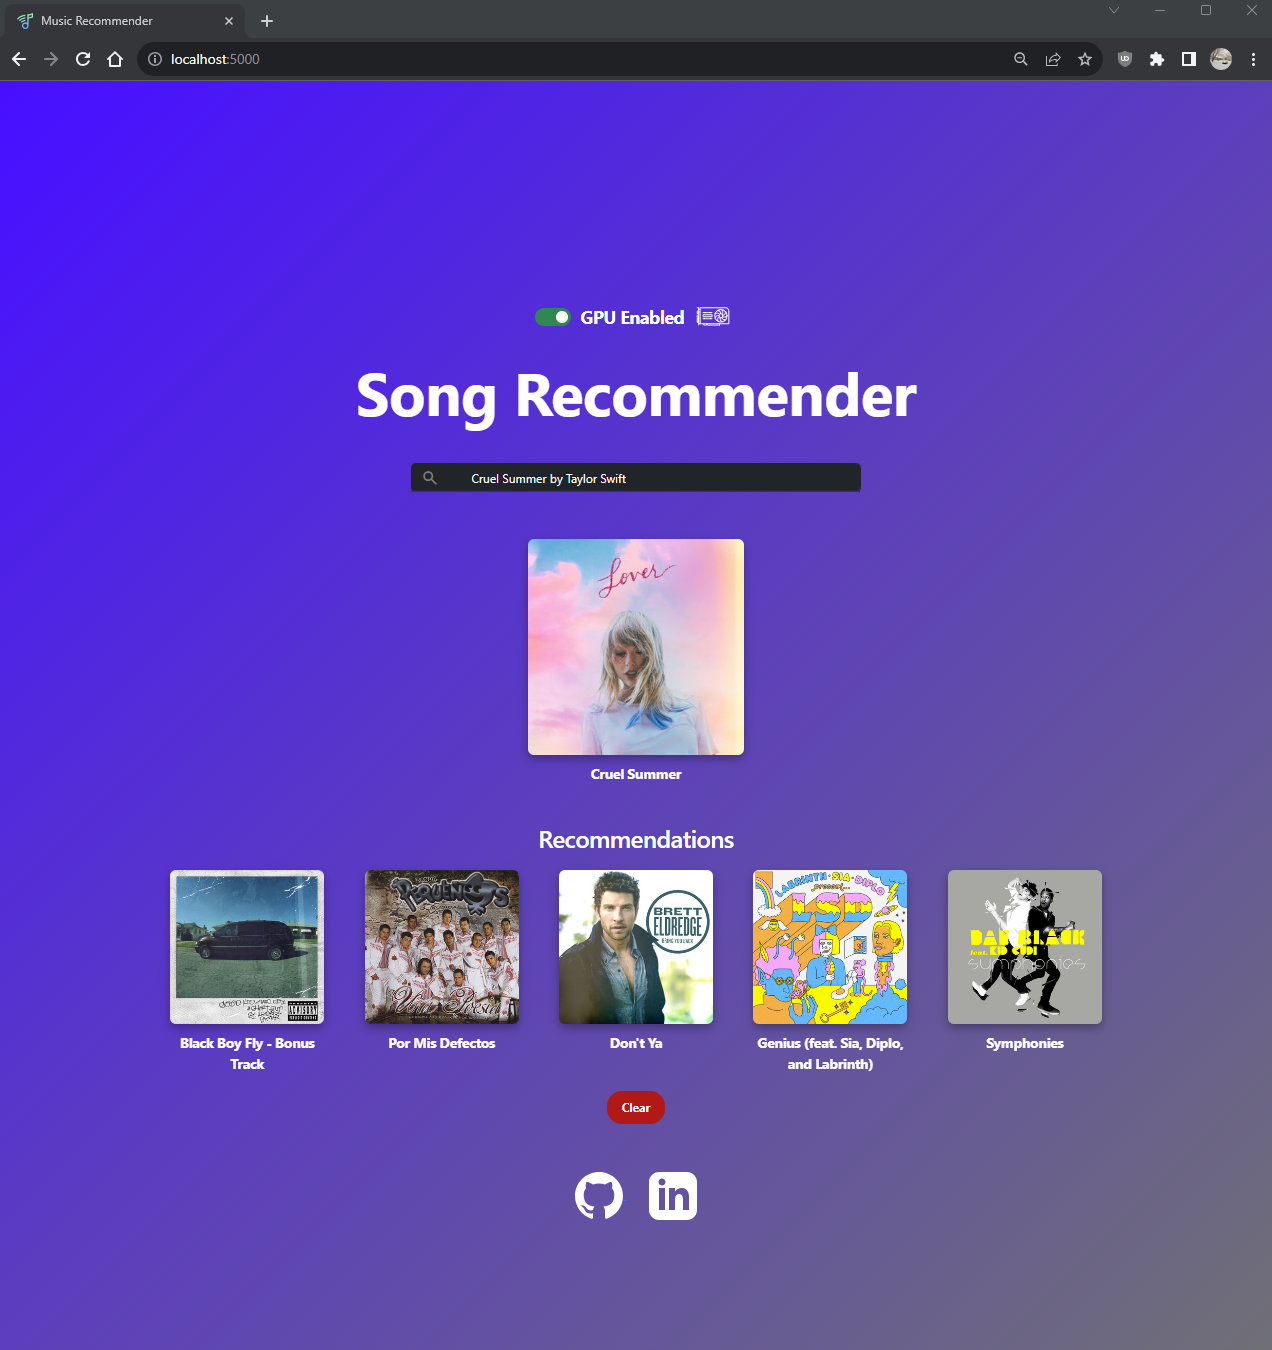
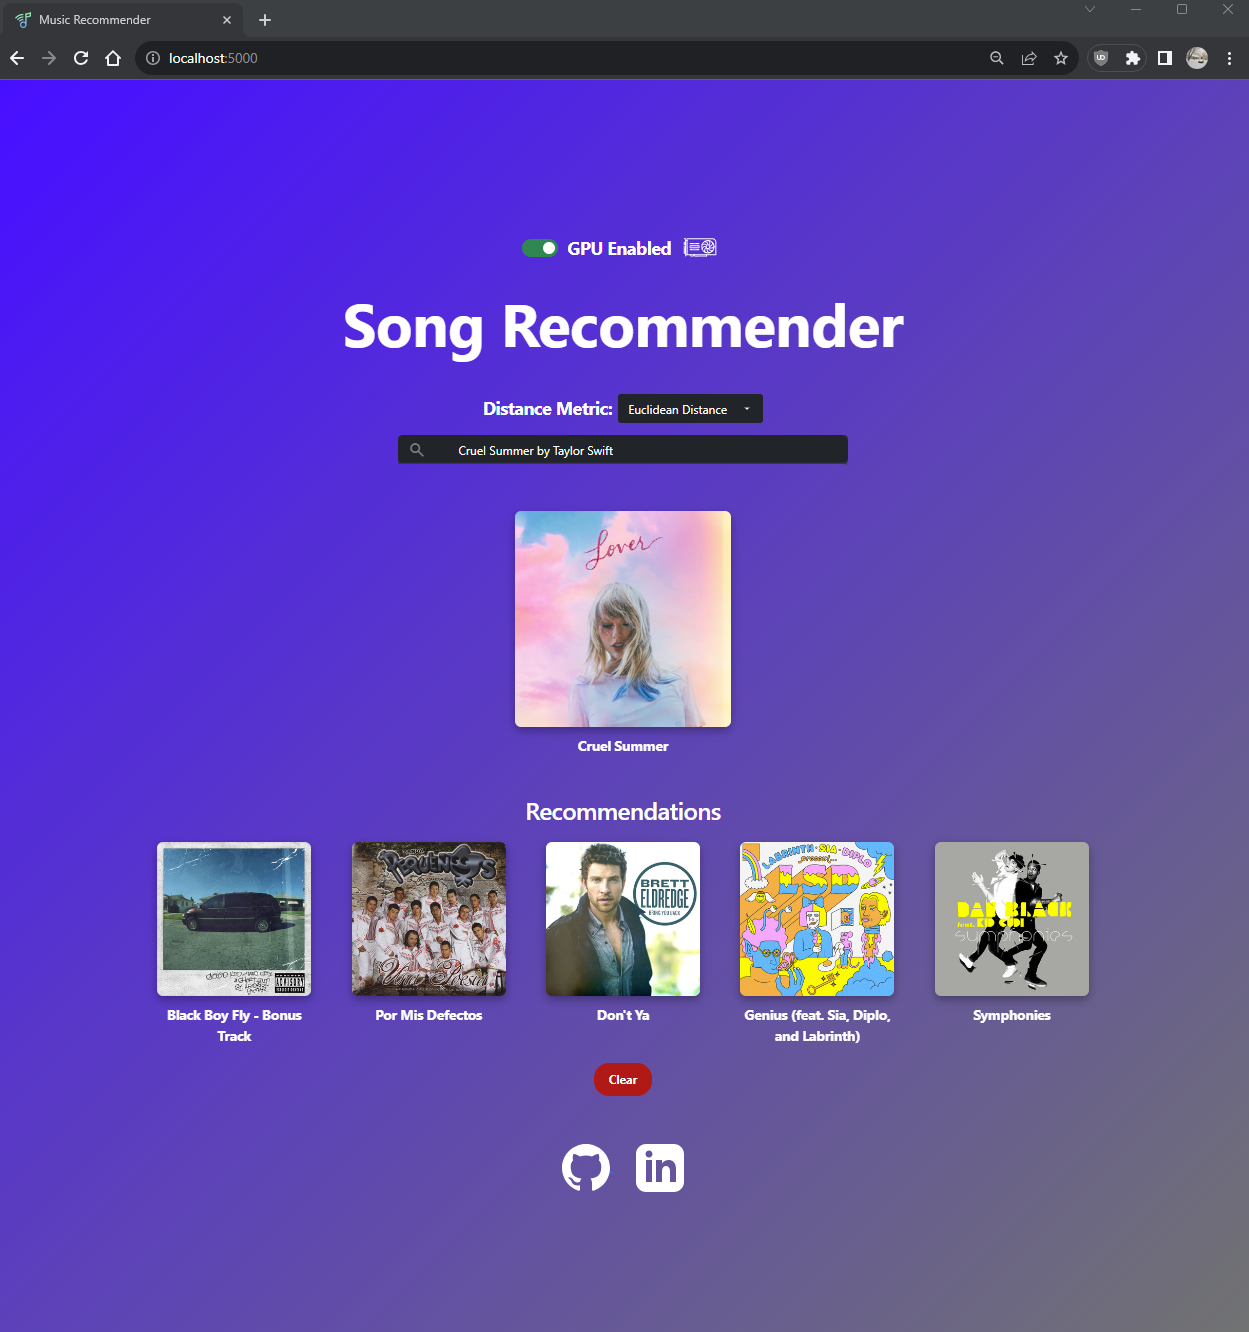
Update README and screenshot for distance metric changes

diff --git a/README.md b/README.md
@@ -28,6 +28,8 @@ Important notes:
 2. Launch the Flask app on localhost:5000: `python song_recommender_app.py` (you may need to use `python3` depending on your install).
     - Application logs are generated in `app.log` in the same directory as `song_recommender_app.py`.
 3. Go to http://localhost:5000 in the browser. You should be able to search now!
+    - If the GPU setup and cuda install worked, the toggle should be available, otherwise it will be grayed-out.
+    - The "Distance Metric" toggle allows you to switch between different KNN distance metrics to get different results.
 
 # Files
 - `data/`: Stores all `.csv` for the local database. The main one is `data.csv`.
